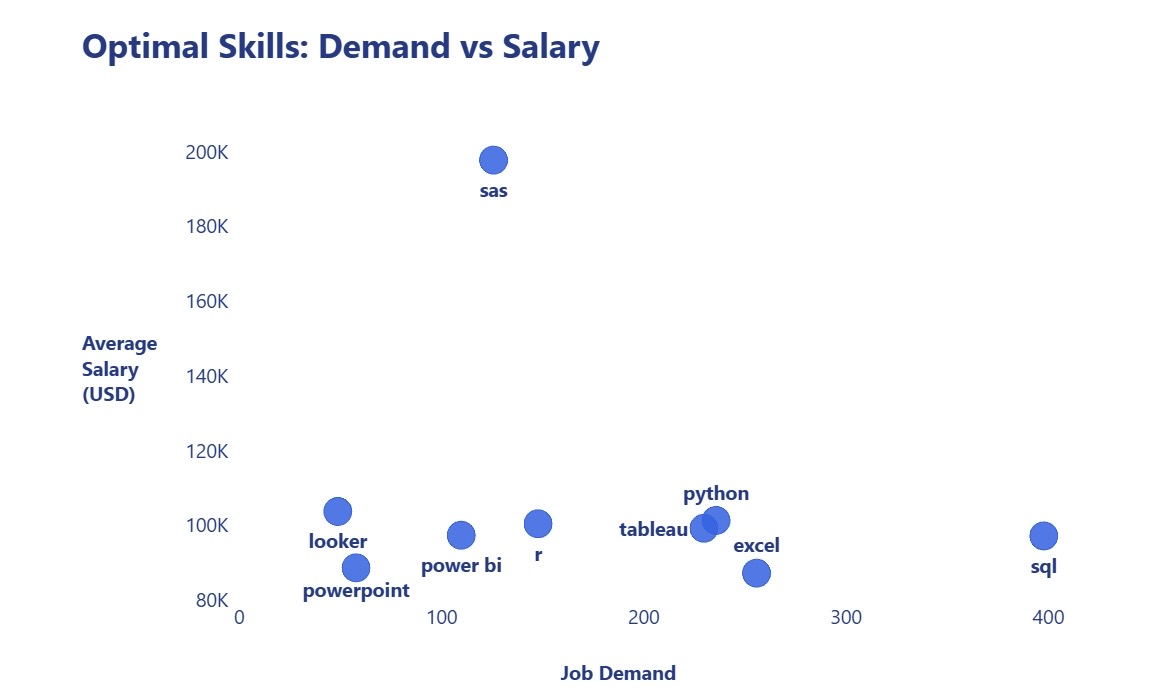
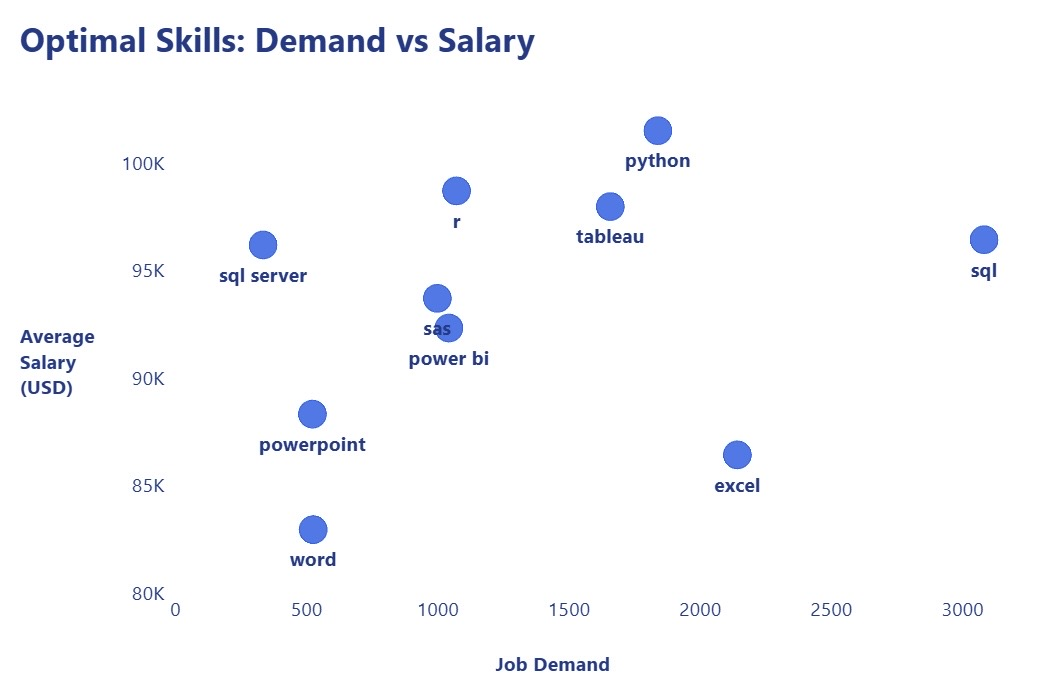
add dashboard screenshots

diff --git a/README.md b/README.md
@@ -4,9 +4,10 @@
 
 - [📌 Introduction](#-introduction)
 - [🛠 Tools Used](#-tools-used)
+- [📊 Power BI Dashboard](#-power-bi-dashboard)
 - [📊 SQL Analysis](#-sql-analysis)
   - [Query 1 – Top Paying Data Analyst Jobs](#query-1--top-paying-data-analyst-jobs)
-  - [Query 2 – Top Companies Hiring Data Analysts](#query-2--top-companies-hiring-data-analysts)
+  - [Query 2 – Top Companies Hiring Data Analysts](#query-2--top-companies-hiring-data-analyst-jobs)
   - [Query 3 – Most In-Demand Skills](#query-3--most-in-demand-skills)
   - [Query 4 – Top Job Platforms](#query-4--top-job-platforms)
   - [Query 5 – Optimal Skills: Demand vs Salary](#query-5--optimal-skills-demand-vs-salary)
@@ -17,25 +18,27 @@
 
 ## 📌 Introduction
 
-This project explores the Data Analyst job market using SQL and Power BI. The analysis is based on real-world job posting data and focuses on answering practical career questions, such as:
+This project analyzes the Data Analyst job market using SQL and Power BI. The analysis is based on real-world job posting data and answers five practical business questions related to salaries, hiring demand, technical skills, and job posting platforms.
 
-- Which Data Analyst jobs offer the highest salaries?
-- Which companies hire the most Data Analysts?
-- What skills are most in demand?
-- Which job platforms publish the most Data Analyst positions?
-- Which skills provide the best balance between market demand and salary?
-
-The project combines **SQL** for data analysis and **Power BI** for data visualization to transform raw job posting data into meaningful insights.
+SQL was used to extract and analyze the data, while Power BI was used to transform the query results into interactive dashboards for data visualization.
 
 ---
 
 ## 🛠 Tools Used
 
-- **PostgreSQL** – Data querying and analysis
-- **SQL** – Data extraction and aggregation
-- **Power BI** – Dashboard visualization
+- **PostgreSQL** – Database management
+- **SQL** – Data querying and analysis
+- **Power BI** – Dashboard development and visualization
 - **Visual Studio Code** – SQL development
 - **Git & GitHub** – Version control and project documentation
+
+---
+
+## 📊 Power BI Dashboard
+
+The SQL query results were imported into Power BI to create interactive dashboards. Each visualization highlights a different aspect of the Data Analyst job market and helps present the analysis in a clear and intuitive way.
+
+The complete Power BI dashboard is included in this repository.
 
 ---
 
@@ -60,8 +63,8 @@ Which Data Analyst jobs offer the highest annual salaries?
 ### Key Insights
 
 - The highest-paying Data Analyst position offers an annual salary above **$650,000**.
-- Most of the highest-paying positions are senior or director-level roles.
-
+- Several positions offer annual salaries exceeding **$200,000**.
+- The highest-paying opportunities are concentrated among a relatively small number of companies.
 
 ---
 
@@ -81,8 +84,9 @@ Which companies publish the largest number of Data Analyst job postings?
 
 ### Key Insights
 
-- A small number of companies account for a significant share of Data Analyst openings.
-- Companies with high hiring demand may provide more opportunities for job seekers.
+- A small number of companies publish a large share of Data Analyst job postings.
+- Companies with high hiring volumes may provide more employment opportunities.
+- Both recruiting agencies and large organizations appear among the most active employers.
 
 ---
 
@@ -102,9 +106,9 @@ Which skills appear most frequently in Data Analyst job postings?
 
 ### Key Insights
 
-- SQL is the most frequently requested skill.
-- Excel and Python remain essential technical skills.
-- Tableau and Power BI are also highly valued visualization tools.
+- SQL is the most frequently requested technical skill.
+- Excel and Python remain essential skills for Data Analysts.
+- Tableau and Power BI are widely used visualization tools.
 
 ---
 
@@ -124,9 +128,9 @@ Which job platforms publish the most Data Analyst job postings?
 
 ### Key Insights
 
-- LinkedIn publishes the largest number of Data Analyst job postings.
-- BeBee and Trabajo.org also contain a considerable number of opportunities.
-- Different platforms attract different segments of the job market.
+- LinkedIn contains the largest number of Data Analyst job postings.
+- BeBee and Trabajo.org also contribute a significant number of opportunities.
+- Data Analyst positions are distributed across multiple recruitment platforms.
 
 ---
 
@@ -134,7 +138,7 @@ Which job platforms publish the most Data Analyst job postings?
 
 ### Business Question
 
-Which skills provide the best balance between market demand and salary for remote Data Analyst jobs with salary information?
+Which skills offer the best combination of high demand and high average salaries for Data Analysts?
 
 ### SQL File
 
@@ -146,9 +150,9 @@ Which skills provide the best balance between market demand and salary for remot
 
 ### Key Insights
 
-- SQL offers the strongest combination of high demand and competitive salaries.
-- Python and Tableau also provide excellent career opportunities.
-- SAS commands the highest average salary but appears in relatively fewer job postings, indicating a niche specialization.
+- SQL combines the highest demand with competitive average salaries.
+- Python and Tableau provide an excellent balance between market demand and salary.
+- SQL Server offers a competitive average salary despite relatively lower demand.
 
 ---
 
@@ -158,10 +162,11 @@ This project demonstrates how SQL and Power BI can be combined to analyze real-w
 
 ### Main Findings
 
-- SQL is the most valuable core skill for aspiring Data Analysts.
-- Python and Tableau significantly improve career competitiveness.
-- LinkedIn is one of the leading platforms for Data Analyst job postings.
-- Salary and market demand should both be considered when choosing which technical skills to learn.
+- SQL is the most in-demand technical skill for Data Analysts.
+- Python, Tableau, Power BI, and SQL Server remain valuable technical skills.
+- A small number of companies account for a large share of Data Analyst hiring.
+- LinkedIn is the leading platform for Data Analyst job postings.
+- Both market demand and salary should be considered when selecting technical skills to learn.
 
 ---
 
@@ -190,6 +195,8 @@ sql_project/
 │   ├── 3_top_demanded_skills.jpg
 │   ├── 4_top_job_platforms.jpg
 │   └── 5_optimal_skills.jpg
+│
+├── SQL_Data_Analyst_Dashboard.pbix
 │
 └── README.md
 ```